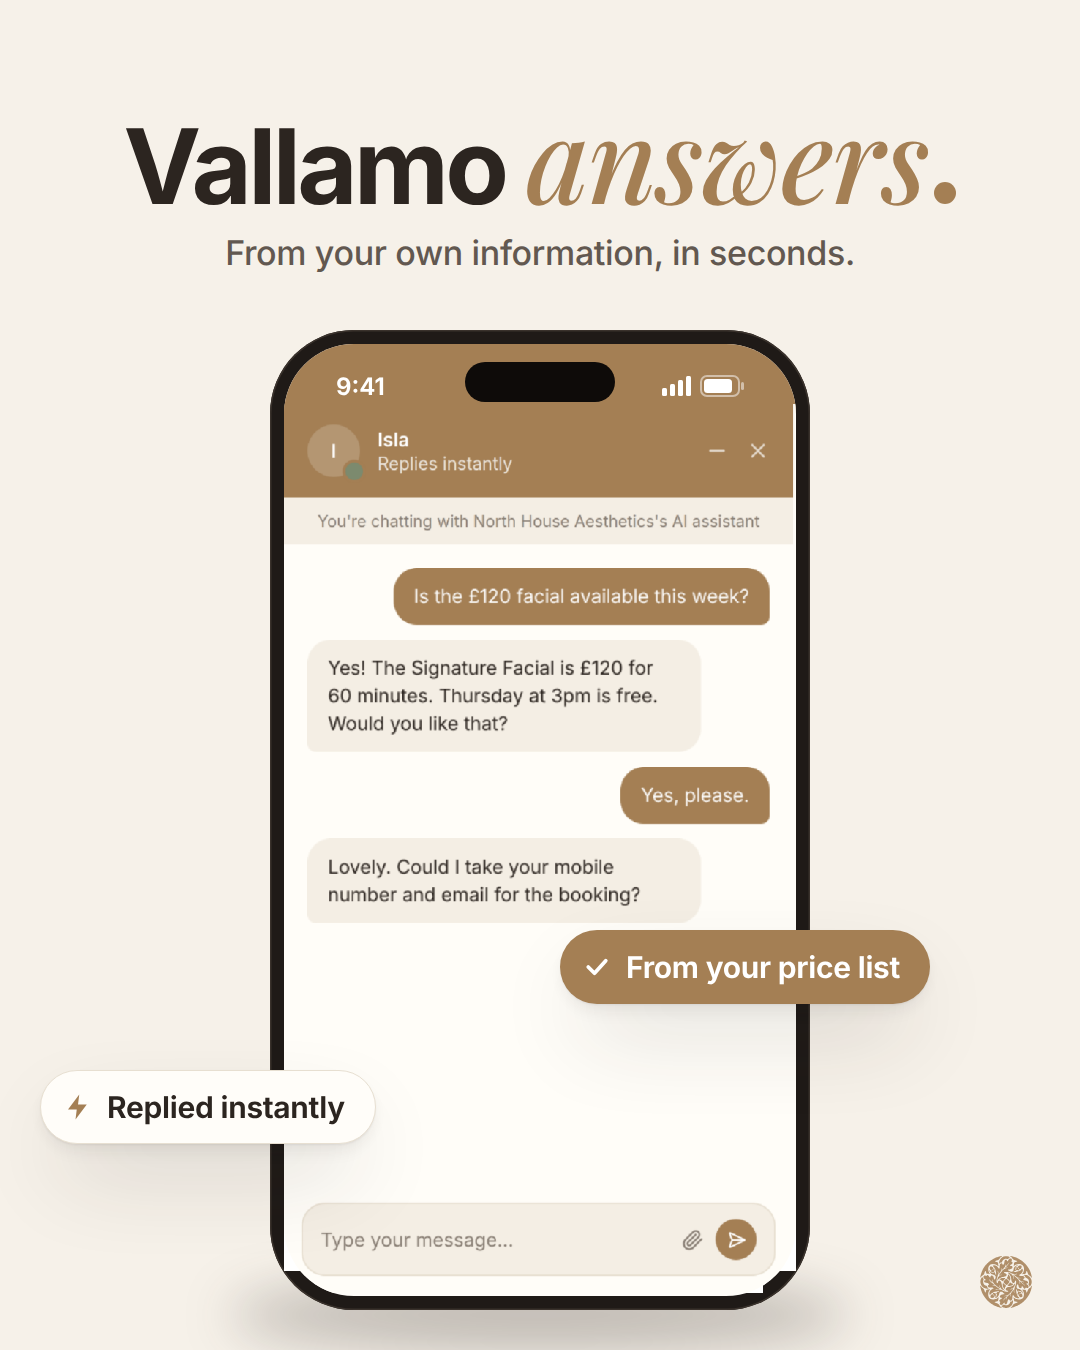
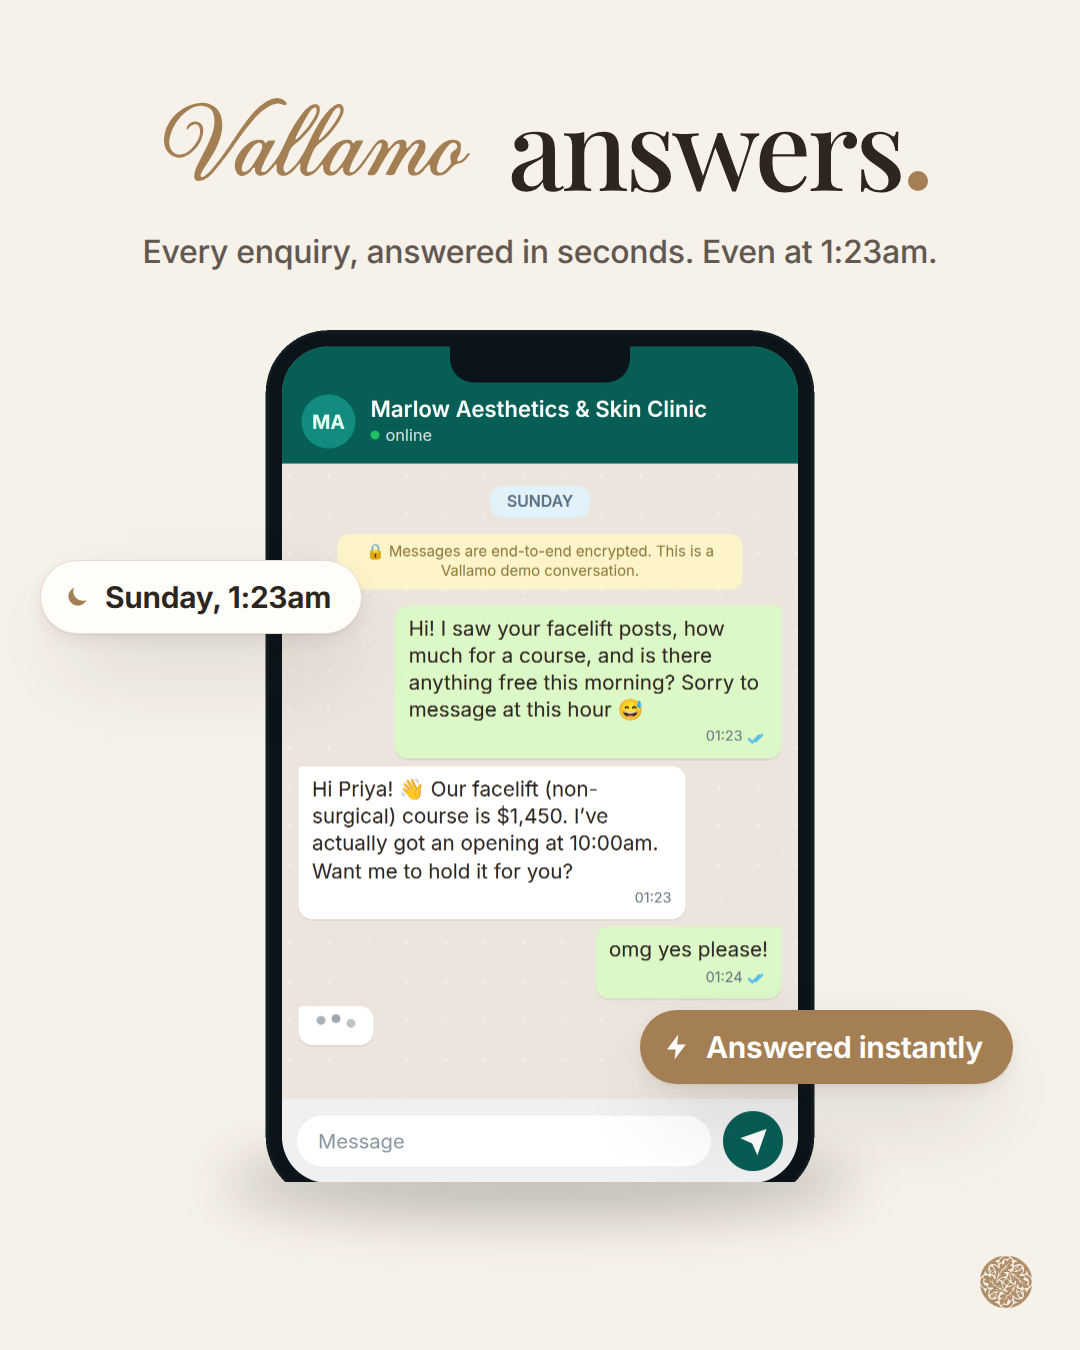
Instagram pins rebuilt from the live demo (vallamo.com/demo): its WhatsApp phone, inbox, diary and handover; Vallamo wordmark titles
Claude-Session: https://claude.ai/code/session_015ws7exuDDXNV8qCuFUsUFK

diff --git a/vallamo-film/videos/src/films/insta/Pins.tsx b/vallamo-film/videos/src/films/insta/Pins.tsx
@@ -1,5 +1,5 @@
 import type { CSSProperties, ReactNode } from "react";
-import { AbsoluteFill } from "remotion";
+import { AbsoluteFill, Img, staticFile } from "remotion";
 
 import { C, FONT } from "../../brand";
 import { Logo } from "../meet/parts";
@@ -47,6 +47,9 @@ function Chip({ x, y, children, gold = false, style }: { x: number; y: number; c
 
 const Bolt = ({ c = C.clay }: { c?: string }) => (
   <svg width={30} height={30} viewBox="0 0 24 24" fill={c}><path d="M13 2 4 14h7l-1 8 9-12h-7z" /></svg>
+);
+const Moon = () => (
+  <svg width={28} height={28} viewBox="0 0 24 24" fill={C.clay}><path d="M20 14.5A8 8 0 0 1 9.5 4a8 8 0 1 0 10.5 10.5z" /></svg>
 );
 const Check = ({ c = "#FFFFFF" }: { c?: string }) => (
   <svg width={30} height={30} viewBox="0 0 24 24" fill="none" stroke={c} strokeWidth={3} strokeLinecap="round" strokeLinejoin="round"><path d="m5 12 5 5 9-10" /></svg>
@@ -120,51 +123,75 @@ function HandledScreen() {
   );
 }
 
-// The verb, and the site's own line for it (vallamo.com).
+/** A capture from the live demo (vallamo.com/demo), drawn at its css size times `k`. */
+function Demo({ name, w, h, k, x, y, shadow = true, style }: { name: string; w: number; h: number; k: number; x: number; y: number; shadow?: boolean; style?: CSSProperties }) {
+  return (
+    <>
+      {shadow && <div style={{ position: "absolute", left: x - 30, top: y + h * k - 34, width: w * k + 60, height: 70, borderRadius: "50%", background: "rgba(44,37,32,.26)", filter: "blur(26px)" }} />}
+      <Img src={staticFile(`ui/demo/${name}.png`)} style={{ position: "absolute", left: x, top: y, width: w * k, height: h * k, ...style }} />
+    </>
+  );
+}
+// The live demo's captures, css px (3x PNGs in public/ui/demo, scripts/demo-captures.mjs).
+const D = { phone: { w: 380, h: 568 }, inbox: { w: 320, h: 718 }, diary: { w: 300, h: 534 }, handover: { w: 1114, h: 268 } };
+
+// The verb, and the demo's own line for it (vallamo.com/demo).
 const PINS = {
-  answers: { verb: "answers", line: "From your own information, in seconds.", screen: <AnswersScreen /> },
-  books: { verb: "books", line: "Into the calendar you already run.", screen: <BooksScreen /> },
-  handled: { verb: "handles", line: "And hands over the moment it matters.", screen: <HandledScreen /> },
+  answers: {
+    verb: "answers",
+    line: "Every enquiry, answered in seconds. Even at 1:23am.",
+    art: (
+      <>
+        <Demo name="phone-chat" {...D.phone} k={1.5} x={255} y={330} />
+        <Chip x={40} y={560}><Moon />Sunday, 1:23am</Chip>
+        <Chip x={640} y={1010} gold><Bolt c="#FFFFFF" />Answered instantly</Chip>
+      </>
+    ),
+  },
+  books: {
+    verb: "books",
+    line: "Booked in 90 seconds, while you were closed.",
+    art: (
+      <>
+        <Demo name="diary" {...D.diary} k={1.45} x={22} y={420} style={{ borderRadius: 26, boxShadow: SHADOW.card }} shadow={false} />
+        <Demo name="phone-booked" {...D.phone} k={1.5} x={455} y={330} />
+        <Chip x={70} y={1215} gold><Check />Straight into the diary</Chip>
+      </>
+    ),
+  },
+  handled: {
+    verb: "handles",
+    line: "Every channel, one inbox. And it hands over when it matters.",
+    art: (
+      <>
+        <Phone>
+          <StatusBar />
+          <Img src={staticFile("ui/demo/inbox.png")} style={{ position: "absolute", left: 0, top: 70, width: SCREEN.w, height: (SCREEN.w / D.inbox.w) * D.inbox.h }} />
+        </Phone>
+        <Chip x={330} y={1240} style={{ gap: 10 }}>
+          {(["m-ch-web", "m-ch-wa", "m-ch-ig"] as PieceName[]).map((c) => <ChannelIcon key={c} card={c} size={40} />)}
+          <span style={{ marginLeft: 6 }}>One inbox</span>
+        </Chip>
+        <Demo name="handover" {...D.handover} k={0.84} x={72} y={985} style={{ borderRadius: 18, boxShadow: SHADOW.lift }} shadow={false} />
+      </>
+    ),
+  },
 };
 
 export function Pin({ which = "answers" }: PinProps) {
   const p = PINS[which];
   return (
     <AbsoluteFill style={{ background: C.canvas, overflow: "hidden" }}>
-      {/* the title: "Vallamo" in ink, the verb in clay Playfair italic, as vallamo.com sets "Handled by Vallamo." */}
-      <div style={{ position: "absolute", left: 0, right: 0, top: 96, textAlign: "center", whiteSpace: "nowrap", lineHeight: 1 }}>
-        <span style={{ fontFamily: FONT.sans, fontWeight: 700, fontSize: 104, letterSpacing: "-0.035em", color: C.ink }}>Vallamo </span>
-        <span style={{ fontFamily: serif, fontStyle: "italic", fontWeight: 500, fontSize: 118, letterSpacing: "-0.01em", color: C.clay }}>{p.verb}</span>
-        <span style={{ display: "inline-block", width: 22, height: 22, marginLeft: 6, borderRadius: "50%", background: C.clay }} />
+      {/* the title: the Vallamo wordmark, then the verb in Playfair, as the demo sets its headline */}
+      <div style={{ position: "absolute", left: 0, right: 0, top: 86, display: "flex", justifyContent: "center", alignItems: "flex-end", gap: 26 }}>
+        <Logo file="vallamo-wordmark" w={330} h={107} />
+        <div style={{ fontFamily: serif, fontWeight: 500, fontSize: 112, lineHeight: 0.86, letterSpacing: "-0.03em", color: C.ink, whiteSpace: "nowrap" }}>
+          {p.verb}
+          <span style={{ display: "inline-block", width: 20, height: 20, marginLeft: 6, borderRadius: "50%", background: C.clay }} />
+        </div>
       </div>
-      <div style={{ position: "absolute", left: 0, right: 0, top: 232, textAlign: "center", fontFamily: FONT.sans, fontWeight: 500, fontSize: 34, letterSpacing: "-0.01em", color: C.ink2 }}>{p.line}</div>
-      <Phone>{p.screen}</Phone>
-      {which === "answers" && (
-        <>
-          <Chip x={40} y={1070}><Bolt />Replied instantly</Chip>
-          <Chip x={560} y={930} gold><Check />From your price list</Chip>
-        </>
-      )}
-      {which === "books" && (
-        <>
-          <Chip x={560} y={1170} gold>
-            <span style={{ fontFamily: serif, fontWeight: 600, fontSize: 36 }}>£120</span> appointment
-          </Chip>
-          <Chip x={580} y={720}><Check c={C.clay} />Booked in the diary</Chip>
-        </>
-      )}
-      {which === "handled" && (
-        <>
-          <Chip x={610} y={440} style={{ gap: 10 }}>
-            {(["m-ch-web", "m-ch-wa", "m-ch-ig"] as PieceName[]).map((c) => <ChannelIcon key={c} card={c} size={40} />)}
-            <span style={{ marginLeft: 6 }}>One inbox</span>
-          </Chip>
-          <div style={{ position: "absolute", left: 300, top: 1000, width: 740, borderRadius: 22, background: C.paper, boxShadow: SHADOW.lift, overflow: "hidden" }}>
-            <Piece name="handover" w={740} />
-          </div>
-          <Chip x={300} y={1236}><Check c={C.clay} />Hands over when it matters</Chip>
-        </>
-      )}
+      <div style={{ position: "absolute", left: 60, right: 60, top: 232, textAlign: "center", fontFamily: FONT.sans, fontWeight: 500, fontSize: 32, letterSpacing: "-0.01em", color: C.ink2 }}>{p.line}</div>
+      {p.art}
       {/* the mark, quietly */}
       <div style={{ position: "absolute", right: 46, bottom: 40, opacity: 0.85 }}>
         <Logo file="vallamo-mark" w={56} h={56} color={C.clay} />
